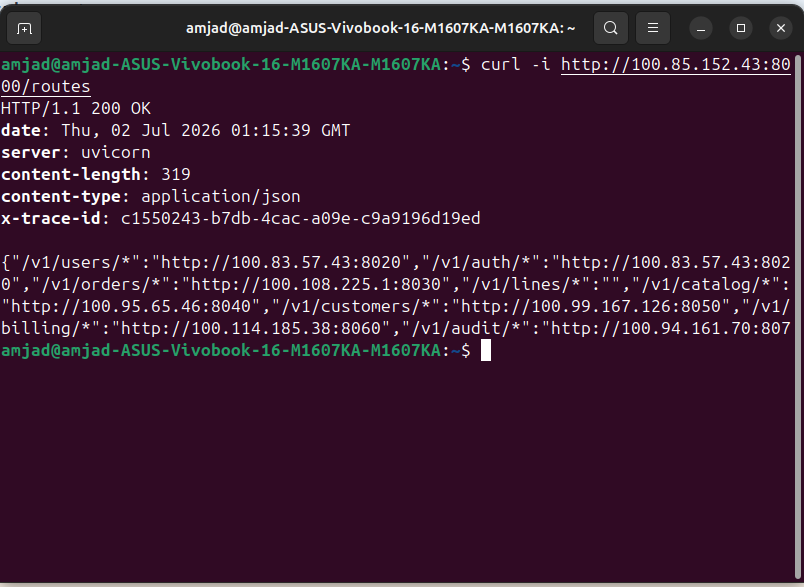
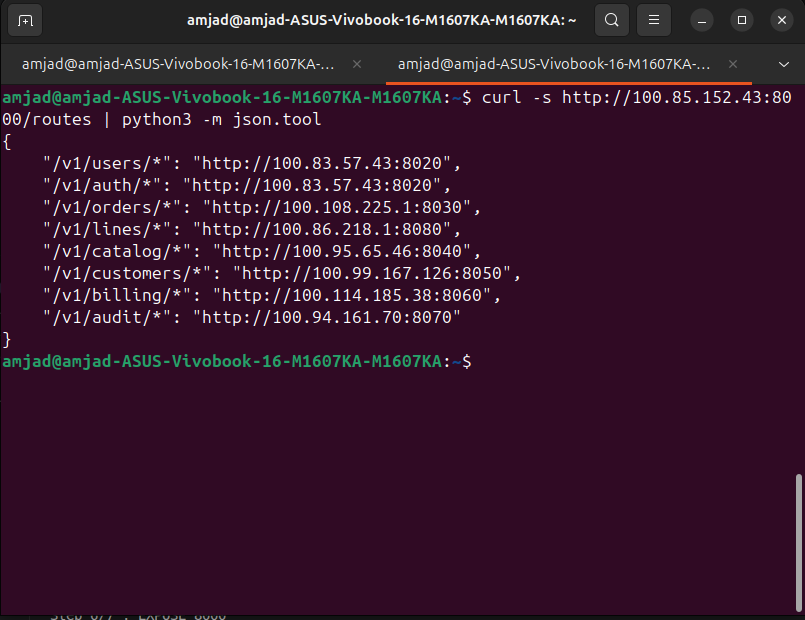
Refactor code structure for improved readability and maintainability

Changed region(s): [[0.0, 0.0, 1.0, 0.7666], [0.0, 0.9813, 1.0, 1.0]]

diff --git a/tests/test_gateway.py b/tests/test_gateway.py
@@ -1,8 +1,10 @@
 import asyncio
 import json
+from urllib.error import HTTPError
 from urllib.error import URLError
 
 import pytest
+from fastapi.responses import Response
 from starlette.requests import Request
 
 import app.main as gateway
@@ -71,6 +73,28 @@ def test_unavailable_upstream_returns_502(monkeypatch, restore_route_targets):
     assert response.status_code == 502
     assert _json_body(response)["detail"] == "Upstream service unavailable"
     assert _json_body(response)["upstream"] == "http://catalog.example.test"
+
+
+def test_upstream_http_error_is_relayed(monkeypatch, restore_route_targets):
+    gateway.ROUTE_TARGETS["catalog"] = "http://catalog.example.test"
+
+    def failing_upstream(*args, **kwargs):
+        raise HTTPError(
+            url="http://catalog.example.test/v1/catalog/plans",
+            code=409,
+            msg="Conflict",
+            hdrs={"content-type": "application/json", "connection": "close"},
+            fp=FakeErrorBody({"detail": "plan unavailable"}),
+        )
+
+    monkeypatch.setattr(gateway, "urlopen", failing_upstream)
+
+    response = _call_proxy("catalog", path="plans")
+
+    assert response.status_code == 409
+    assert response.headers["content-type"] == "application/json"
+    assert "connection" not in response.headers
+    assert _json_body(response) == {"detail": "plan unavailable"}
 
 
 def test_proxy_forwards_request_to_mock_upstream(monkeypatch, restore_route_targets):
@@ -174,6 +198,139 @@ def test_authenticated_get_bypasses_cache(monkeypatch, restore_route_targets, re
     assert len(upstream_calls) == 2
 
 
+def test_metrics_endpoint_exposes_prometheus_payload():
+    response = gateway.metrics()
+
+    assert response.media_type.startswith("text/plain")
+    assert b"api_gateway_http_requests_total" in response.body
+
+
+def test_observe_requests_adds_trace_id_header():
+    request = _request("GET", "/health", headers=[(b"x-trace-id", b"trace-from-client")])
+
+    async def call_next(received_request):
+        assert received_request.state.trace_id == "trace-from-client"
+        return Response(content=b"ok", status_code=204)
+
+    response = asyncio.run(gateway.observe_requests(request, call_next))
+
+    assert response.status_code == 204
+    assert response.headers["x-trace-id"] == "trace-from-client"
+
+
+def test_observe_requests_logs_and_reraises_failures():
+    request = _request("GET", "/health")
+
+    async def failing_call_next(received_request):
+        raise RuntimeError("boom")
+
+    with pytest.raises(RuntimeError, match="boom"):
+        asyncio.run(gateway.observe_requests(request, failing_call_next))
+
+
+def test_cache_key_rules_and_cacheable_service_parsing(restore_cache):
+    gateway.settings.cache_enabled = True
+    gateway.settings.cache_services = " catalog, billing ,, "
+
+    assert gateway._cacheable_services() == {"catalog", "billing"}
+    assert gateway._cache_key("catalog", "GET", "http://upstream/v1/catalog/plans", {}) is not None
+    assert gateway._cache_key("catalog", "POST", "http://upstream/v1/catalog/plans", {}) is None
+    assert gateway._cache_key("orders", "GET", "http://upstream/v1/orders", {}) is None
+    assert (
+        gateway._cache_key(
+            "catalog",
+            "GET",
+            "http://upstream/v1/catalog/plans",
+            {"Authorization": "Bearer token"},
+        )
+        is None
+    )
+
+    gateway.settings.cache_enabled = False
+    assert gateway._cache_key("catalog", "GET", "http://upstream/v1/catalog/plans", {}) is None
+
+
+def test_cache_read_handles_bypass_unavailable_errors_and_invalid_payload(monkeypatch, restore_cache):
+    assert gateway._read_cached_response(None, "catalog") is None
+
+    gateway.redis_client = None
+    monkeypatch.setattr(gateway, "redis", None)
+    assert gateway._read_cached_response("cache-key", "catalog") is None
+
+    gateway.redis_client = FakeRedis(raise_on_get=True)
+    assert gateway._read_cached_response("cache-key", "catalog") is None
+
+    gateway.redis_client = FakeRedis(items={"cache-key": json.dumps({"body": "not-base64"})})
+    assert gateway._read_cached_response("cache-key", "catalog") is None
+
+
+def test_redis_client_handles_connection_error(monkeypatch, restore_cache):
+    class FakeRedisFactory:
+        class Redis:
+            @staticmethod
+            def from_url(*args, **kwargs):
+                return FailingPingRedis()
+
+    gateway.redis_client = None
+    monkeypatch.setattr(gateway, "redis", FakeRedisFactory)
+
+    assert gateway._redis_client() is None
+    assert gateway.redis_client is None
+
+
+def test_cache_write_skips_non_cacheable_and_handles_unavailable_or_failing_client(monkeypatch, restore_cache):
+    gateway.redis_client = FakeRedis()
+    response = Response(content=b"accepted", status_code=202)
+
+    gateway._write_cached_response("cache-key", "catalog", response)
+    assert gateway.redis_client.items == {}
+
+    gateway._write_cached_response(None, "catalog", Response(content=b"ok", status_code=200))
+    assert gateway.redis_client.items == {}
+
+    gateway.redis_client = None
+    monkeypatch.setattr(gateway, "redis", None)
+    gateway._write_cached_response("cache-key", "catalog", Response(content=b"ok", status_code=200))
+
+    gateway.redis_client = FakeRedis(raise_on_setex=True)
+    gateway._write_cached_response("cache-key", "catalog", Response(content=b"ok", status_code=200))
+    assert gateway.redis_client.items == {}
+
+
+def test_header_filtering_and_route_helpers():
+    filtered_request_headers = gateway._filter_request_headers(
+        {
+            "Host": "gateway.local",
+            "Connection": "keep-alive",
+            "Authorization": "Bearer undefined",
+            "X-Correlation-Id": "abc",
+        }
+    )
+
+    assert filtered_request_headers == {"X-Correlation-Id": "abc"}
+
+    filtered_response_headers = gateway._filter_response_headers(
+        {"Content-Type": "application/json", "Transfer-Encoding": "chunked"}
+    )
+    assert filtered_response_headers == {"Content-Type": "application/json"}
+
+    cacheable_headers = gateway._cacheable_response_headers(
+        {"Content-Type": "application/json", "Content-Length": "2", "X-Cache": "MISS"}
+    )
+    assert cacheable_headers == {"Content-Type": "application/json"}
+
+    assert gateway._route_label(_request("GET", "/v1/catalog/plans")) == "/v1/{service}/{path}"
+    assert gateway._route_label(_request("GET", "/health")) == "/health"
+    routed_request = _request("GET", "/health")
+    routed_request.scope["route"] = FakeRoute("/health")
+    assert gateway._route_label(routed_request) == "/health"
+
+    no_client_request = _request("GET", "/health")
+    no_client_request.scope["client"] = None
+    assert gateway._client_host(no_client_request) == ""
+    assert gateway._client_host(_request("GET", "/health")) == "127.0.0.1"
+
+
 class FakeUpstreamResponse:
     def __init__(self, status, headers, body):
         self.status = status
@@ -191,15 +348,42 @@ class FakeUpstreamResponse:
 
 
 class FakeRedis:
-    def __init__(self):
-        self.items = {}
+    def __init__(self, items=None, raise_on_get=False, raise_on_setex=False):
+        self.items = items or {}
+        self.raise_on_get = raise_on_get
+        self.raise_on_setex = raise_on_setex
 
     def get(self, key):
+        if self.raise_on_get:
+            raise gateway.RedisError("read failed")
         return self.items.get(key)
 
     def setex(self, key, ttl, value):
+        if self.raise_on_setex:
+            raise gateway.RedisError("write failed")
         assert ttl == gateway.settings.cache_ttl_seconds
         self.items[key] = value
+
+
+class FailingPingRedis:
+    def ping(self):
+        raise gateway.RedisError("redis unavailable")
+
+
+class FakeRoute:
+    def __init__(self, path):
+        self.path = path
+
+
+class FakeErrorBody:
+    def __init__(self, body):
+        self._body = json.dumps(body).encode()
+
+    def read(self):
+        return self._body
+
+    def close(self):
+        pass
 
 
 def _call_proxy(service, path="", query_string=b"", headers=None):